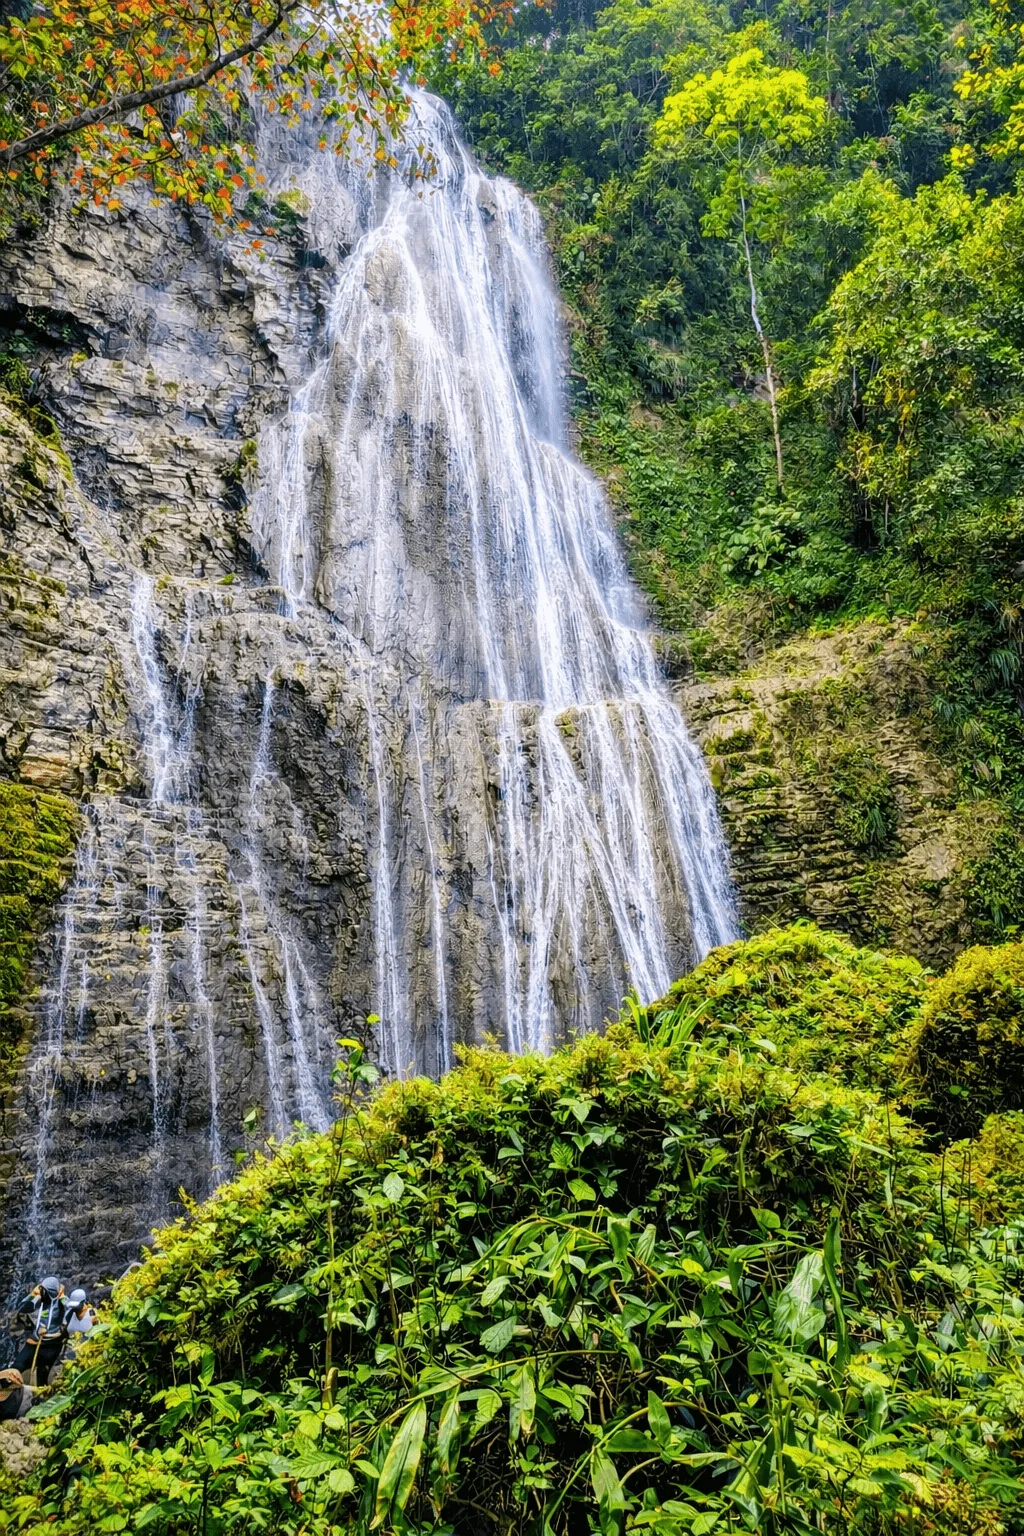
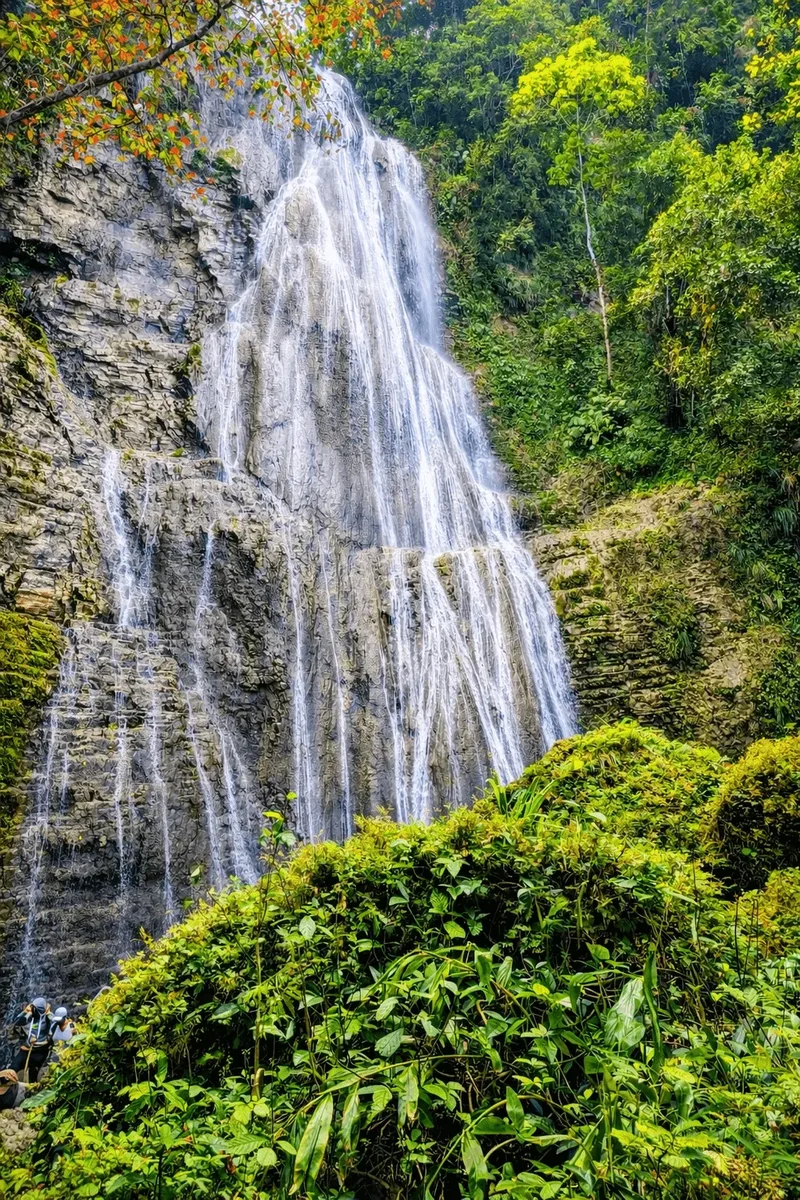
perf: fix red-flagged images — resize nonsuch, convert hero+screenshots to WebP
- nonsuch-falls.webp: 624KB → 394KB (resized 1024→800px)
- photo-from-willy-london.jpg → .webp: 435KB → 248KB
- Screenshot PNG → WebP: 238KB → 10KB
- instagram graph-api PNG → WebP: 164KB → 11KB
Total per-page savings: ~1.1 MB

diff --git a/index.html b/index.html
@@ -29,7 +29,7 @@ layout: null
   <link rel="manifest" href="/manifest.json" />
 
   <!-- Preloads -->
-  <link rel="preload" as="image" href="/assets/images/photo-from-willy-london.jpg" />
+  <link rel="preload" as="image" href="/assets/images/photo-from-willy-london.webp" />
   <link rel="preload" as="style" href="/assets/style.css" />
 
   <!-- Preconnect -->
@@ -43,7 +43,7 @@ layout: null
   <meta property="og:title" content="IT Automation &amp; Web Systems Consultant in Jamaica | Willy London" />
   <meta property="og:description" content="Jamaica-based IT automation consultant and content creator. I build high-performance systems — automation workflows, websites, and content pipelines. 20+ years IT experience." />
   <meta property="og:url" content="https://thecreativetechnician.online/" />
-  <meta property="og:image" content="https://thecreativetechnician.online/assets/images/photo-from-willy-london.jpg" />
+  <meta property="og:image" content="https://thecreativetechnician.online/assets/images/photo-from-willy-london.webp" />
 
   <!-- Twitter Card -->
   <meta name="twitter:card" content="summary_large_image" />
@@ -63,7 +63,7 @@ layout: null
       "@type": "PostalAddress",
       "addressCountry": "Jamaica"
     },
-    "image": "https://thecreativetechnician.online/assets/images/photo-from-willy-london.jpg",
+    "image": "https://thecreativetechnician.online/assets/images/photo-from-willy-london.webp",
     "priceRange": "$$$",
     "knowsLanguage": ["en"],
     "sameAs": [
@@ -105,7 +105,7 @@ layout: null
   </script>
   <meta name="twitter:title" content="IT Automation &amp; Web Systems Consultant in Jamaica | Willy London" />
   <meta name="twitter:description" content="Jamaica-based IT automation consultant and content creator. I build high-performance systems — automation workflows, websites, and content pipelines. 20+ years IT experience." />
-  <meta name="twitter:image" content="https://thecreativetechnician.online/assets/images/photo-from-willy-london.jpg" />
+  <meta name="twitter:image" content="https://thecreativetechnician.online/assets/images/photo-from-willy-london.webp" />
 
   <!-- JSON-LD Structured Data -->
   {% raw %}
@@ -117,7 +117,7 @@ layout: null
     "alternateName": "Willy London",
     "jobTitle": "IT Automation Consultant & Creative Technician",
     "url": "https://thecreativetechnician.online",
-    "image": "https://thecreativetechnician.online/assets/images/photo-from-willy-london.jpg",
+    "image": "https://thecreativetechnician.online/assets/images/photo-from-willy-london.webp",
     "description": "Jamaica-based IT professional with 20+ years experience. Automation consultant, content creator, and digital growth coach.",
     "address": {
       "@type": "PostalAddress",
@@ -243,7 +243,7 @@ layout: null
   <main class="page-layer">
     <section class="hero" id="hero-section">
       <div class="hero-bg-image">
-        <img src="/assets/images/photo-from-willy-london.jpg" alt="Willy London" class="hero-img-fill">
+        <img src="/assets/images/photo-from-willy-london.webp" alt="Willy London" class="hero-img-fill">
         <div class="hero-overlay-gradient"></div>
       </div>
       <div class="container relative z-20">

diff --git a/blog/index.html b/blog/index.html
@@ -26,13 +26,13 @@ permalink: /blog/
   <meta property="og:title" content="From the Lab | Willy London" />
   <meta property="og:description" content="Systems, automation, and real work from the field." />
   <meta property="og:url" content="{{ site.url }}/blog/" />
-  <meta property="og:image" content="{{ site.url }}/assets/images/photo-from-willy-london.jpg" />
+  <meta property="og:image" content="{{ site.url }}/assets/images/photo-from-willy-london.webp" />
   <meta property="og:site_name" content="The Creative Technician" />
   <meta name="twitter:card" content="summary_large_image" />
   <meta name="twitter:site" content="@willylondon" />
   <meta name="twitter:title" content="From the Lab | Willy London" />
   <meta name="twitter:description" content="Systems, automation, and real work from the field." />
-  <meta name="twitter:image" content="{{ site.url }}/assets/images/photo-from-willy-london.jpg" />
+  <meta name="twitter:image" content="{{ site.url }}/assets/images/photo-from-willy-london.webp" />
   <link rel="preconnect" href="https://fonts.bunny.net" crossorigin />
   <link href="https://fonts.bunny.net/css?family=space-grotesk:500,600,700|epilogue:400,500,600|jetbrains-mono:400,500" rel="stylesheet" />
   <link rel="stylesheet" href="/assets/style.css" />

diff --git a/next/src/app/layout.tsx b/next/src/app/layout.tsx
@@ -79,7 +79,7 @@ export default function RootLayout({
                 addressCountry: "JM",
               },
               image:
-                "https://thecreativetechnician.online/assets/images/photo-from-willy-london.jpg",
+                "https://thecreativetechnician.online/assets/images/photo-from-willy-london.webp",
               priceRange: "$$$",
               knowsLanguage: ["en"],
               sameAs: [
@@ -102,7 +102,7 @@ export default function RootLayout({
               jobTitle: "IT Automation Consultant & Creative Technician",
               url: "https://thecreativetechnician.online",
               image:
-                "https://thecreativetechnician.online/assets/images/photo-from-willy-london.jpg",
+                "https://thecreativetechnician.online/assets/images/photo-from-willy-london.webp",
               description:
                 "Kingston-based IT support specialist and digital solutions builder with 20+ years of experience in systems, networking, AI automation and web delivery.",
               address: {

diff --git a/next/src/app/page.tsx b/next/src/app/page.tsx
@@ -65,7 +65,7 @@ const projects = [
     type: "Automation architecture / AI operations",
     description:
       "A multi-route n8n system that validates media, extracts or transcribes content, shapes AI output, then delivers the finished report to email, Telegram and Drive.",
-    image: "/assets/images/Screenshot 2026-04-30 at 11.40.41 AM.png",
+    image: "/assets/images/Screenshot 2026-04-30 at 11.40.41 AM.webp",
     imageAlt: "Multi-stage n8n reporting workflow built by Willard Wells",
     href: "https://www.youtube.com/@JamrockAI",
     cta: "See the build channel",

diff --git a/_posts/2026-03-26-how-i-built-an-instagram-dm-autoresponder-with-n8n-and-meta.md b/_posts/2026-03-26-how-i-built-an-instagram-dm-autoresponder-with-n8n-and-meta.md
@@ -4,7 +4,7 @@ title: "How I Built an Instagram DM Autoresponder with n8n & Meta"
 date: 2026-03-26
 categories: [Automation, n8n, Instagram]
 description: "A step-by-step breakdown of how I used n8n and the Meta Graph API to build an automated Instagram DM responder — without any third-party tools."
-image: /assets/images/instagram-dm-autoresponder-graph-api-explorer.png
+image: /assets/images/instagram-dm-autoresponder-graph-api-explorer.webp
 image_width: 2984
 image_height: 1628
 featured: false
@@ -119,7 +119,7 @@ The fix was not "generate another random token and pray." The fix was using the 
 The Graph API Explorer setup looked like this.
 Again, I redacted the actual token and account-specific details:
 
-![Meta Graph API Explorer permissions for Instagram messaging](/assets/images/instagram-dm-autoresponder-graph-api-explorer.png){: width="2984" height="1628" loading="lazy" decoding="async" }
+![Meta Graph API Explorer permissions for Instagram messaging](/assets/images/instagram-dm-autoresponder-graph-api-explorer.webp){: width="2984" height="1628" loading="lazy" decoding="async" }
 
 Then I queried the accounts endpoint for the Page token:
 

diff --git a/next/src/content/_posts/2026-03-26-how-i-built-an-instagram-dm-autoresponder-with-n8n-and-meta.md b/next/src/content/_posts/2026-03-26-how-i-built-an-instagram-dm-autoresponder-with-n8n-and-meta.md
@@ -4,7 +4,7 @@ title: "How I Built an Instagram DM Autoresponder with n8n & Meta"
 date: 2026-03-26
 categories: [Automation, n8n, Instagram]
 description: "A step-by-step breakdown of how I used n8n and the Meta Graph API to build an automated Instagram DM responder — without any third-party tools."
-image: /assets/images/instagram-dm-autoresponder-graph-api-explorer.png
+image: /assets/images/instagram-dm-autoresponder-graph-api-explorer.webp
 image_width: 2984
 image_height: 1628
 featured: false
@@ -119,7 +119,7 @@ The fix was not "generate another random token and pray." The fix was using the 
 The Graph API Explorer setup looked like this.
 Again, I redacted the actual token and account-specific details:
 
-![Meta Graph API Explorer permissions for Instagram messaging](/assets/images/instagram-dm-autoresponder-graph-api-explorer.png){: width="2984" height="1628" loading="lazy" decoding="async" }
+![Meta Graph API Explorer permissions for Instagram messaging](/assets/images/instagram-dm-autoresponder-graph-api-explorer.webp){: width="2984" height="1628" loading="lazy" decoding="async" }
 
 Then I queried the accounts endpoint for the Page token:
 

diff --git a/_posts/2026-02-23-chasing-the-coldest-plunge-a-journey-to-falling-edge-falls.md b/_posts/2026-02-23-chasing-the-coldest-plunge-a-journey-to-falling-edge-falls.md
@@ -25,7 +25,7 @@ While most people take the standard route through Stoney Castle and Bowden Hill,
 
 Standing tall since 1924, the Hermitage Dam is a massive gravity structure that feels like a gateway to another world. Reaching it at dawn is a total vibe, the fog sits heavy over the water, and the air turns crisp. It took us about an hour and a half to reach this point, but with the views we had, nobody was complaining.
 
-![Lifestyle Hikers group at the Hermitage Dam, Blue Mountains, Kingston Jamaica](/assets/images/photo-from-willy-london.jpg)
+![Lifestyle Hikers group at the Hermitage Dam, Blue Mountains, Kingston Jamaica](/assets/images/photo-from-willy-london.webp)
 
 ### Into the "Amazon"
 

diff --git a/next/src/content/_posts/2026-02-23-chasing-the-coldest-plunge-a-journey-to-falling-edge-falls.md b/next/src/content/_posts/2026-02-23-chasing-the-coldest-plunge-a-journey-to-falling-edge-falls.md
@@ -25,7 +25,7 @@ While most people take the standard route through Stoney Castle and Bowden Hill,
 
 Standing tall since 1924, the Hermitage Dam is a massive gravity structure that feels like a gateway to another world. Reaching it at dawn is a total vibe, the fog sits heavy over the water, and the air turns crisp. It took us about an hour and a half to reach this point, but with the views we had, nobody was complaining.
 
-![](/assets/images/photo-from-willy-london.jpg)
+![](/assets/images/photo-from-willy-london.webp)
 
 ### Into the "Amazon"
 

diff --git a/_posts/2026-03-30-how-i-built-an-instagram-join-bot-with-n8n-meta-and-one-very-specific-token.md b/_posts/2026-03-30-how-i-built-an-instagram-join-bot-with-n8n-meta-and-one-very-specific-token.md
@@ -4,7 +4,7 @@ title: "How I Built an Instagram Join Bot with n8n, Meta, and One Very Specific 
 date: 2026-03-30
 categories: [Automation, n8n, Instagram]
 description: "The token drama no one warned me about. How I built an Instagram join-link bot with n8n and Meta's Graph API — and the exact permission scope that unlocks it all."
-image: /assets/images/instagram-dm-autoresponder-graph-api-explorer.png
+image: /assets/images/instagram-dm-autoresponder-graph-api-explorer.webp
 image_width: 2984
 image_height: 1628
 featured: false

diff --git a/next/src/content/_posts/2026-03-30-how-i-built-an-instagram-join-bot-with-n8n-meta-and-one-very-specific-token.md b/next/src/content/_posts/2026-03-30-how-i-built-an-instagram-join-bot-with-n8n-meta-and-one-very-specific-token.md
@@ -4,7 +4,7 @@ title: "How I Built an Instagram Join Bot with n8n, Meta, and One Very Specific 
 date: 2026-03-30
 categories: [Automation, n8n, Instagram]
 description: "The token drama no one warned me about. How I built an Instagram join-link bot with n8n and Meta's Graph API — and the exact permission scope that unlocks it all."
-image: /assets/images/instagram-dm-autoresponder-graph-api-explorer.png
+image: /assets/images/instagram-dm-autoresponder-graph-api-explorer.webp
 image_width: 2984
 image_height: 1628
 featured: false

diff --git a/_posts/2026-01-21-wilosopher-one-foot-in-front-of-the-other.md b/_posts/2026-01-21-wilosopher-one-foot-in-front-of-the-other.md
@@ -5,7 +5,7 @@ date: 2026-01-20
 featured: true
 categories: [Lifestyle, Jamaica, Personal]
 description: "The founding post. Why I started building. Automation, content, hiking, legacy — and why discipline beats motivation every time."
-image: /assets/images/photo-from-willy-london.jpg
+image: /assets/images/photo-from-willy-london.webp
 image_width: 800
 image_height: 900
 image_alt: "Willy London — IT professional, automation builder, and content creator based in Jamaica"

diff --git a/next/src/content/_posts/2026-01-21-wilosopher-one-foot-in-front-of-the-other.md b/next/src/content/_posts/2026-01-21-wilosopher-one-foot-in-front-of-the-other.md
@@ -5,7 +5,7 @@ date: 2026-01-20
 featured: true
 categories: [Lifestyle, Jamaica, Personal]
 description: "The founding post. Why I started building. Automation, content, hiking, legacy — and why discipline beats motivation every time."
-image: /assets/images/photo-from-willy-london.jpg
+image: /assets/images/photo-from-willy-london.webp
 image_width: 800
 image_height: 900
 image_alt: "Willy London — IT professional, automation builder, and content creator based in Jamaica"
